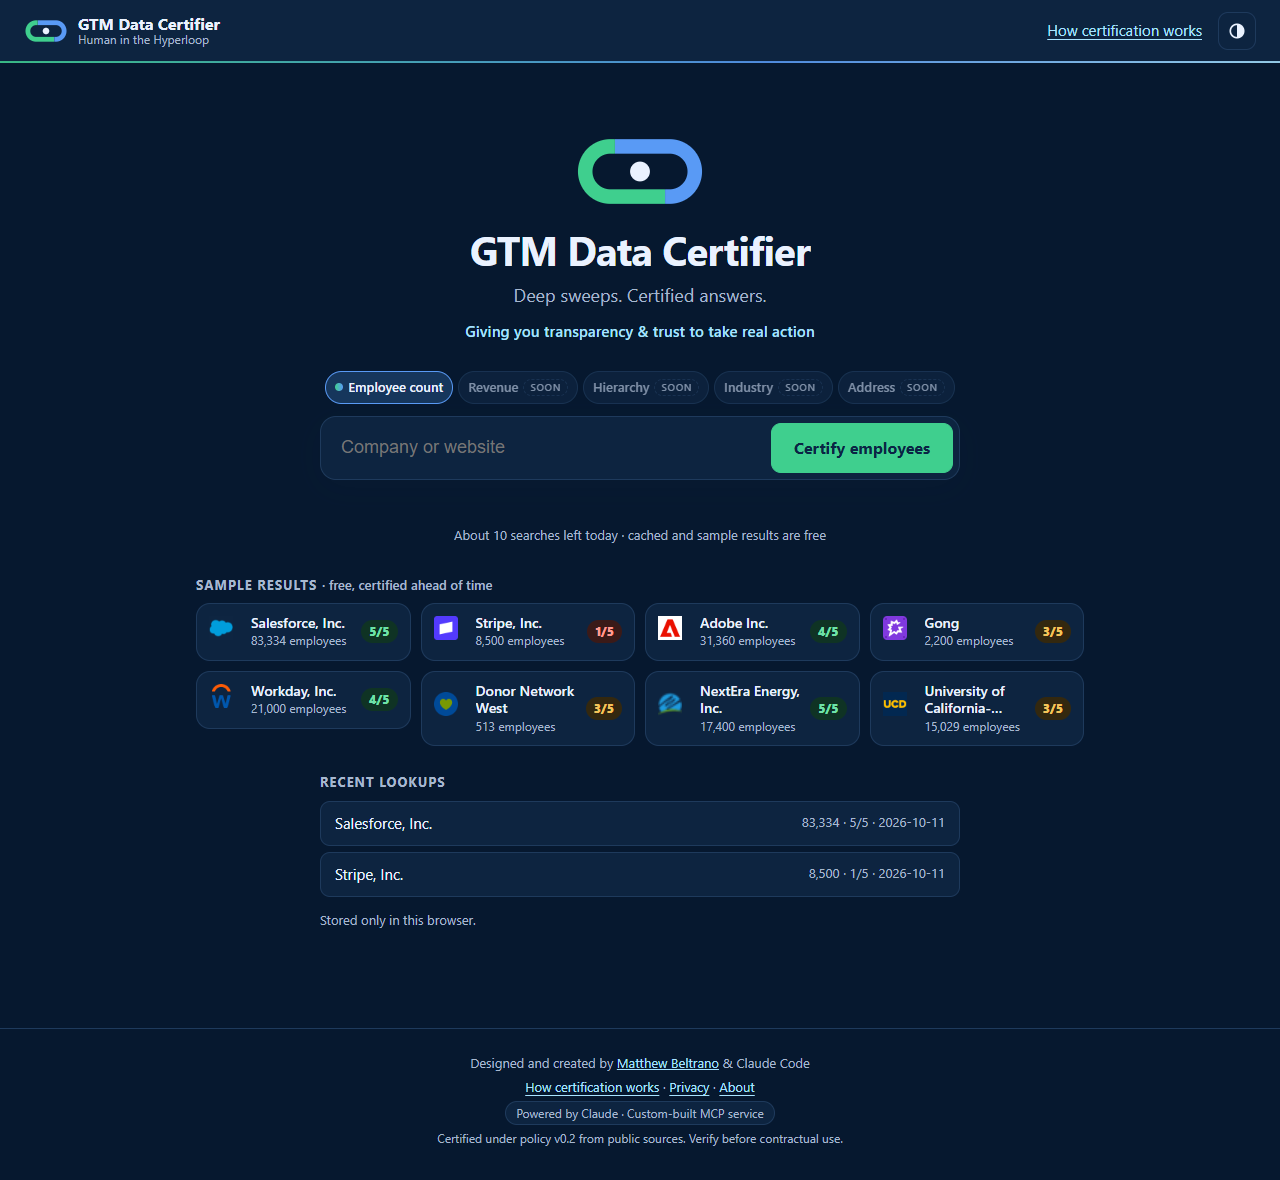
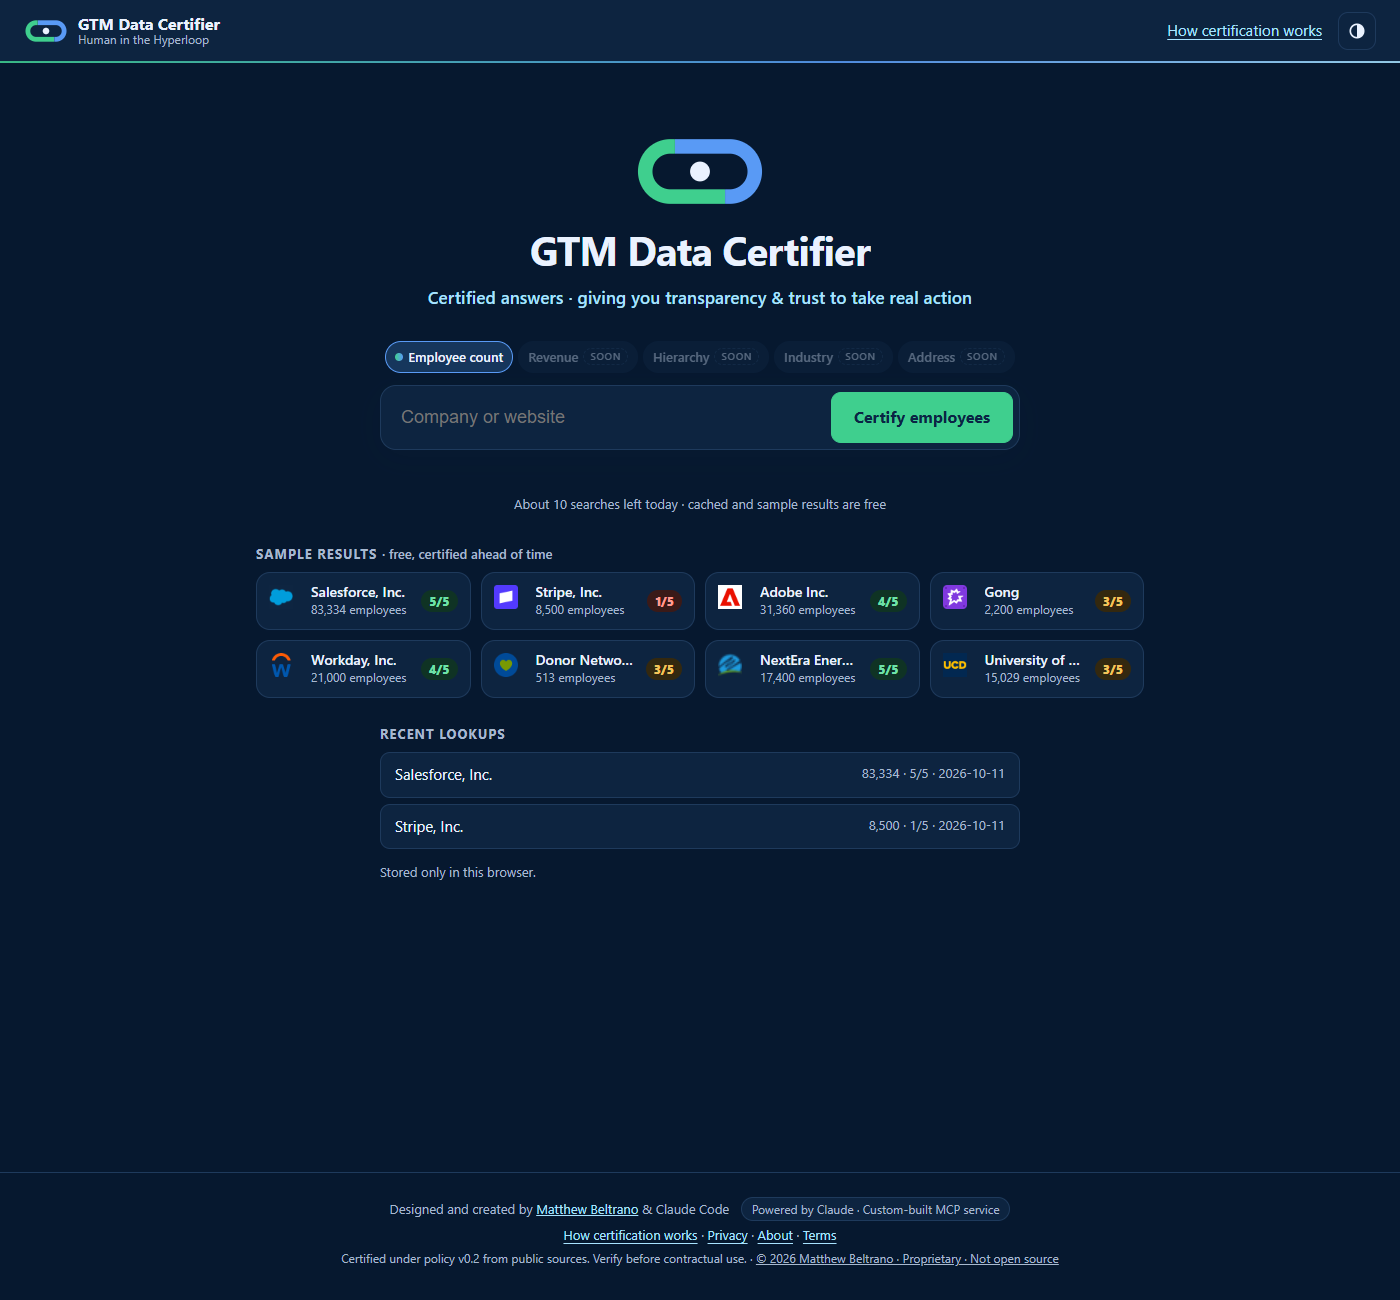
Home page: one-line blue tagline, fainter soon metrics, no admin line, two-line sample cards, three-line footer

diff --git a/src/certifier/static/app.css b/src/certifier/static/app.css
@@ -192,6 +192,8 @@ dialog.panel::backdrop { background: rgba(6, 24, 47, .55); }
 /* Result head, powered-by badge, glossary, steps */
 .result-head .spacer { flex: 1; }
 .powered { margin: 6px 0; }
+.site-footer .powered-badge { margin-left: 8px; }
+.site-footer .owner-notice { color: inherit; }
 .powered-badge { display: inline-block; padding: 2px 10px; border: 1px solid var(--line); border-radius: 999px; font-size: 12px; color: var(--muted); background: var(--card); }
 .glossary { display: grid; gap: 10px; margin: 8px 0 16px; }
 .glossary .g-cat { padding: 10px 12px; border-radius: 12px; background: var(--soft); }
@@ -228,7 +230,7 @@ code { font-size: 13px; padding: 1px 5px; border-radius: 4px; background: var(--
 .still *, .still *::before, .still *::after { animation-duration: 0s !important; animation-delay: 0s !important; transition: none !important; }
 
 /* Mission line */
-.mission { margin: -18px 0 28px; font-size: 15px; font-weight: 600; letter-spacing: .01em; color: var(--accent); }
+.mission { margin: 10px 0 30px; font-size: 17px; font-weight: 600; letter-spacing: .01em; color: var(--accent); }
 .about-mission { margin: 0 0 12px; font-size: 16px; }
 
 /* Confirm page: finding matches */
@@ -244,7 +246,7 @@ code { font-size: 13px; padding: 1px 5px; border-radius: 4px; background: var(--
   border: 1px solid var(--line); background: var(--card); color: var(--text); cursor: default; }
 .metric.on { border-color: var(--loop-blue); background: var(--accent-soft); }
 .metric .m-dot { width: 8px; height: 8px; border-radius: 50%; background: linear-gradient(90deg, var(--loop-green), var(--loop-blue)); }
-.metric.soon { color: var(--muted); opacity: .75; cursor: not-allowed; font-weight: 500; }
+.metric.soon { color: var(--muted); opacity: .5; cursor: not-allowed; font-weight: 500; border-color: transparent; }
 .metric.soon em { font-style: normal; font-size: 10px; text-transform: uppercase; letter-spacing: .06em; padding: 0 6px; border-radius: 999px;
   border: 1px dashed var(--line); }
 @media (max-width: 520px) { .btn-more { display: none; } }
@@ -263,7 +265,7 @@ code { font-size: 13px; padding: 1px 5px; border-radius: 4px; background: var(--
 .sample-card .logo { width: 32px; height: 32px; font-size: 14px; }
 .sample-card .logo img { width: 24px; height: 24px; }
 .sc-text { display: grid; min-width: 0; }
-.sc-name { font-weight: 600; font-size: 14px; line-height: 1.25; display: -webkit-box; -webkit-line-clamp: 2; -webkit-box-orient: vertical; overflow: hidden; }
+.sc-name { font-weight: 600; font-size: 14px; line-height: 1.25; white-space: nowrap; overflow: hidden; text-overflow: ellipsis; }
 .sc-meta { font-size: 12px; color: var(--muted); font-variant-numeric: tabular-nums; }
 .sc-score { font-size: 12px; font-weight: 800; padding: 2px 8px; border-radius: 999px; background: var(--soft); }
 .sc-score.s5, .sc-score.s4 { color: var(--green); background: var(--green-bg); }
@@ -296,7 +298,7 @@ code { font-size: 13px; padding: 1px 5px; border-radius: 4px; background: var(--
   .hero-logo { width: 96px; height: auto; }
   .hero h1 { font-size: 27px; }
   .tagline { font-size: 15px; margin-bottom: 18px; }
-  .mission { font-size: 13px; margin: -12px 0 18px; }
+  .mission { font-size: 14px; margin: 8px 0 20px; }
   .metric { font-size: 12px; padding: 4px 8px; }
   .search input { font-size: 16px; padding: 10px 10px; }  /* 16px keeps iOS from zooming */
   .search .primary { padding: 10px 14px; font-size: 15px; }

diff --git a/src/certifier/static/index.html b/src/certifier/static/index.html
@@ -35,8 +35,7 @@ __ROBOTS_META__
       <div class="hero-inner">
         <svg class="mark hero-logo" viewBox="0 0 200 110" role="img" aria-label="Human in the Hyperloop logo" width="132" height="73"><defs><clipPath id="mxb"><polygon points="62,0 200,0 200,110 138,110 138,55 62,55"/></clipPath><clipPath id="mxg"><polygon points="0,0 62,0 62,55 138,55 138,110 0,110"/></clipPath></defs><rect x="17" y="17" width="166" height="76" rx="38" fill="none" stroke="#3FCF8E" stroke-width="22" clip-path="url(#mxg)"/><rect x="17" y="17" width="166" height="76" rx="38" fill="none" stroke="#599AF5" stroke-width="22" clip-path="url(#mxb)"/><circle cx="100" cy="55" r="15" fill="currentColor"/></svg>
         <h1 id="home-title">GTM Data Certifier</h1>
-        <p class="tagline">__TAGLINE__</p>
-        <p class="mission">Giving you transparency &amp; trust to take real action</p>
+        <p class="mission">Certified answers · giving you transparency &amp; trust to take real action</p>
         <div class="metrics" role="group" aria-label="What to certify">
           <button type="button" class="metric on" aria-pressed="true"><span class="m-dot" aria-hidden="true"></span>Employee count</button>
           <button type="button" class="metric soon" aria-disabled="true" data-soon="Revenue">Revenue <em>soon</em></button>
@@ -125,16 +124,16 @@ __ROBOTS_META__
 </main>
 
 <footer class="site-footer">
-  <p>Designed and created by <a href="https://www.linkedin.com/in/matthewbeltrano/" target="_blank" rel="noopener noreferrer">Matthew Beltrano</a> &amp; Claude Code</p>
+  <p>Designed and created by <a href="https://www.linkedin.com/in/matthewbeltrano/" target="_blank" rel="noopener noreferrer">Matthew Beltrano</a> &amp; Claude Code
+    <span class="powered-badge">Powered by Claude · Custom-built MCP service</span></p>
   <p class="footer-links">
     <button type="button" class="link" data-open="dlg-how">How certification works</button> ·
     <button type="button" class="link" data-open="dlg-privacy">Privacy</button> ·
     <button type="button" class="link" data-open="dlg-about">About</button> ·
     <a class="link" href="/terms">Terms</a>
   </p>
-  <p class="powered"><span class="powered-badge">Powered by Claude · Custom-built MCP service</span></p>
-  <p class="disclaimer">Certified under policy v__POLICY_VERSION__ from public sources. Verify before contractual use.</p>
-  <p class="owner-notice"><a href="/terms">© 2026 Matthew Beltrano · Proprietary · Not open source</a></p>
+  <p class="disclaimer">Certified under policy v__POLICY_VERSION__ from public sources. Verify before contractual use. ·
+    <a class="owner-notice" href="/terms">© 2026 Matthew Beltrano · Proprietary · Not open source</a></p>
 </footer>
 
 <!-- 5. How certification works -->

diff --git a/src/certifier/static/app.js b/src/certifier/static/app.js
@@ -116,7 +116,7 @@
   function showAllowance(d) {
     var n = $("allowance");
     if (!d) { n.textContent = ""; return; }
-    if (d.admin) n.textContent = "Admin · no limits";
+    if (d.admin) n.textContent = "";
     else if (d.searches_left > 0) n.textContent = "About " + d.searches_left + " search" + (d.searches_left === 1 ? "" : "es") + " left today · cached and sample results are free";
     else n.textContent = (d.message || "You've reached today's beta limit. Back tomorrow.") + " Cached and sample results still work.";
   }
@@ -135,7 +135,7 @@
       d.samples.forEach(function (s) {
         var b = el("button", { type: "button", cls: "sample-card" }, [
           logo({ name: s.name, logo_url: logoUrl(s.website) }),
-          el("span", { cls: "sc-text" }, [el("span", { cls: "sc-name", text: s.name }),
+          el("span", { cls: "sc-text" }, [el("span", { cls: "sc-name", text: s.name, title: s.name }),
             el("span", { cls: "sc-meta", text: (s.count == null ? "not certified" : num(s.count)) + " employees" })]),
           el("span", { cls: "sc-score s" + s.score, text: s.score + "/5" })]);
         b.addEventListener("click", function () { openSample(s.slug); });

diff --git a/tests/test_web.py b/tests/test_web.py
@@ -126,7 +126,7 @@ def test_access_code_cli_round_trip():
 
 def test_page_and_single_css_and_js(client):
     page = client.get("/")
-    assert page.status_code == 200 and "GTM Data Certifier" in page.text and "Deep sweeps. Certified answers." in page.text
+    assert page.status_code == 200 and "GTM Data Certifier" in page.text and "Certified answers · giving you transparency" in page.text
     assert "Matthew Beltrano" in page.text and "linkedin.com/in/matthewbeltrano" in page.text
     assert "Certified under policy v0.2 from public sources. Verify before contractual use." in page.text
     css = client.get("/static/app.css").text

diff --git a/tests/test_notices.py b/tests/test_notices.py
@@ -43,7 +43,7 @@ def test_terms_page_and_footer_link(client):
                   "All rights reserved", OWNER_LINE):
         assert words in terms.text
     home = client.get("/").text
-    assert '<a href="/terms">© 2026 Matthew Beltrano · Proprietary · Not open source</a>' in home
+    assert '<a class="owner-notice" href="/terms">© 2026 Matthew Beltrano · Proprietary · Not open source</a>' in home
     assert 'data-open="dlg-privacy">Privacy</button>' in home and '<a class="link" href="/terms">Terms</a>' in home
 
 

diff --git a/DECISIONS.md b/DECISIONS.md
@@ -832,3 +832,8 @@ The record's entity carries `address` and `address_source`, shown as **HQ addres
   as private. At 3/5 the card and deck say it's a strong result for a private company; at 4-5/5 they celebrate it as
   rare (a sparkle and a short burst of confetti on the card, which respects reduced motion). Public filers,
   nonprofits and universities get no such note.
+
+### D107. A quieter home page
+- One line under the title, in blue: "Certified answers · giving you transparency & trust to take real action" (the
+  "Deep sweeps" line is gone). The "soon" metrics are fainter, admins no longer see "Admin · no limits", sample cards
+  keep the name to one line (trimmed, full name on hover) so every card is two lines, and the footer is three lines.
